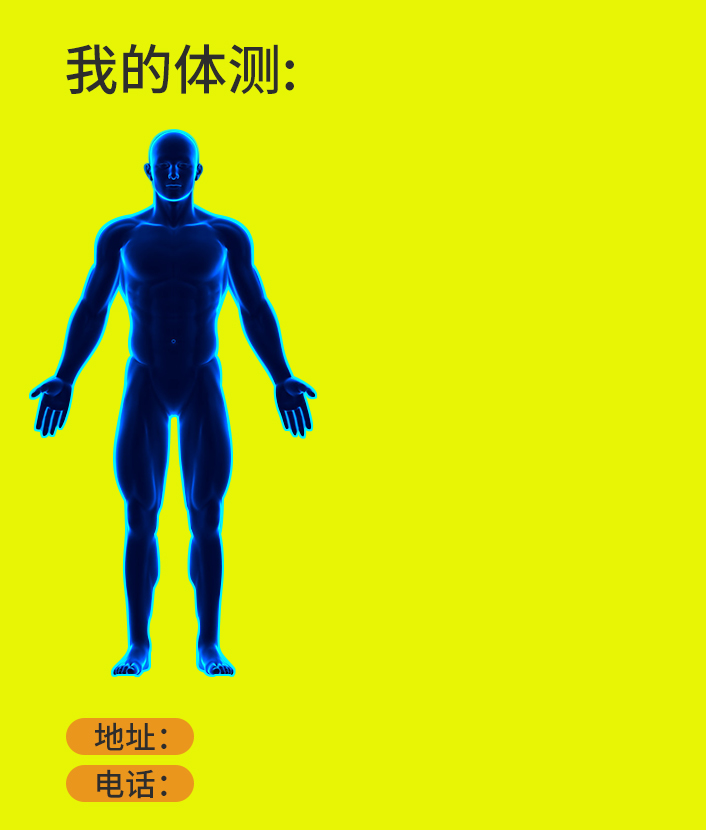
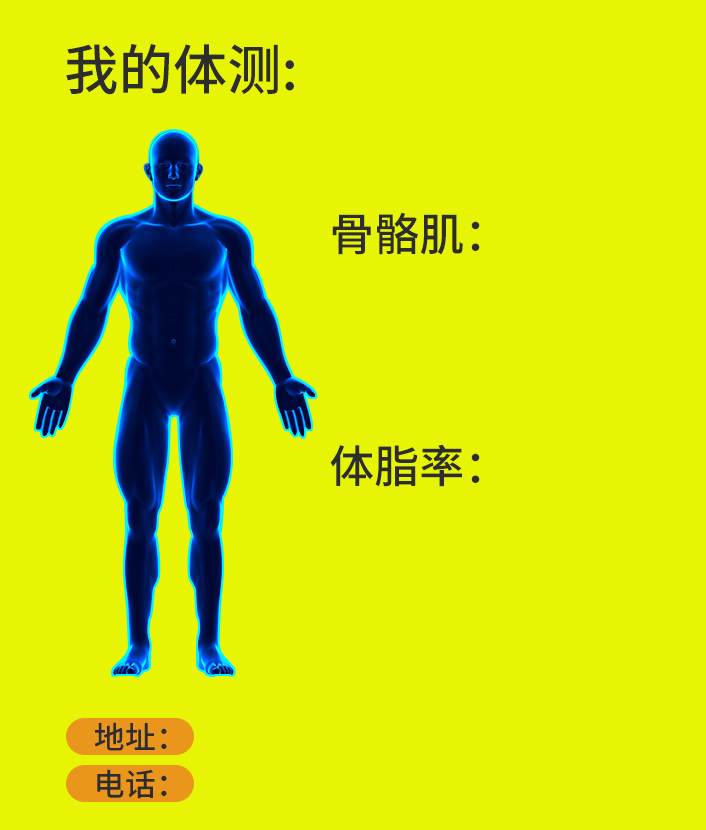
1

Changed region(s): [[0.4674, 0.241, 0.6856, 0.3313], [0.4674, 0.512, 0.6544, 0.6024]]

diff --git a/miniprogram/pages/admintrend/trend.js b/miniprogram/pages/admintrend/trend.js
@@ -36,7 +36,7 @@ Page({
     var categories = [];
     var data = [];
     for (var i = 0; i < records.length; i++) {
-      categories.push(util.formatTime(records[i].completeTime));
+      categories.push(records[i].completeTime.substring(5, 10));
       data.push(parseFloat(records[i].record.weight[0]));
     }
     // data[4] = null;
@@ -50,7 +50,7 @@ Page({
     var categories = [];
     var data = [];
     for (var i = 0; i < records.length; i++) {
-      categories.push(util.formatTime(records[i].completeTime));
+      categories.push(records[i].completeTime.substring(5, 10));
       data.push(parseFloat(records[i].record.skeletalMuscle[0]));
     }
     // data[4] = null;
@@ -79,7 +79,7 @@ Page({
     var categories = [];
     var data = [];
     for (var i = 0; i < records.length; i++) {
-      categories.push(util.formatTime(records[i].completeTime));
+      categories.push(records[i].completeTime.substring(5, 10));
       data.push(parseFloat(records[i].record.pbf[0]));
     }
     // data[4] = null;

diff --git a/miniprogram/pages/share/share.js b/miniprogram/pages/share/share.js
@@ -95,10 +95,10 @@ Page({
     this.setData({
       template: new Card().palette(
         this.data.date,
-        this.formatGugeji(this.data.record.mp.tizhilv),
-        this.formatTizhilv(this.data.record.mp.gugeji),
-        this.getThumb(this.data.tizhilvSate),
+        this.formatGugeji(this.data.record.mp.gugeji),
+        this.formatTizhilv(this.data.record.mp.tizhilv),
         this.getThumb(this.data.gugejiState),
+        this.getThumb(this.data.tizhilvSate),
         this.data.record.qr.addr,
         this.data.record.qr.tel),
     });
@@ -258,11 +258,11 @@ Page({
   },
 
   formatTizhilv(value) {
-    return value.cur + "%(" + value.min + "-" + value.max + ")";
+    return value.cur + "%\n(" + value.min + "%-" + value.max + "%)";
   },
 
   formatGugeji(value) {
-    return value.cur + "kg(" + value.min + "-" + value.max + ")";
+    return value.cur + "kg\n(" + value.min + "kg-" + value.max + "kg)";
   },
 
   getThumb(state) {

diff --git a/miniprogram/palette/card.js b/miniprogram/palette/card.js
@@ -39,7 +39,7 @@ export default class LastMayday {
           type: 'text',
           text: time,  //时间
           css: {
-            top: '80rpx',
+            top: '60rpx',
             fontSize: '36rpx',
             left: '380rpx',
           },
@@ -68,7 +68,7 @@ export default class LastMayday {
           type: 'text',
           text:  gugeji,  //骨骼肌内容
           css: {
-            top: '300rpx',
+            top: '320rpx',
             fontSize: '34rpx',
             left: '420rpx',
           },

diff --git a/miniprogram/pages/admindetail/detail.js b/miniprogram/pages/admindetail/detail.js
@@ -98,7 +98,7 @@ Page({
     console.log("onResult: ", record);
     // titile
     wx.setNavigationBarTitle({
-      title: '体成分结果(' + util.formatTime(record.completeTime) + ")",
+      title: '体成分结果(' + record.completeTime.substring(5, 10) + ")",
     })
 
     // 如果有PDF图片，则不再显示列表
